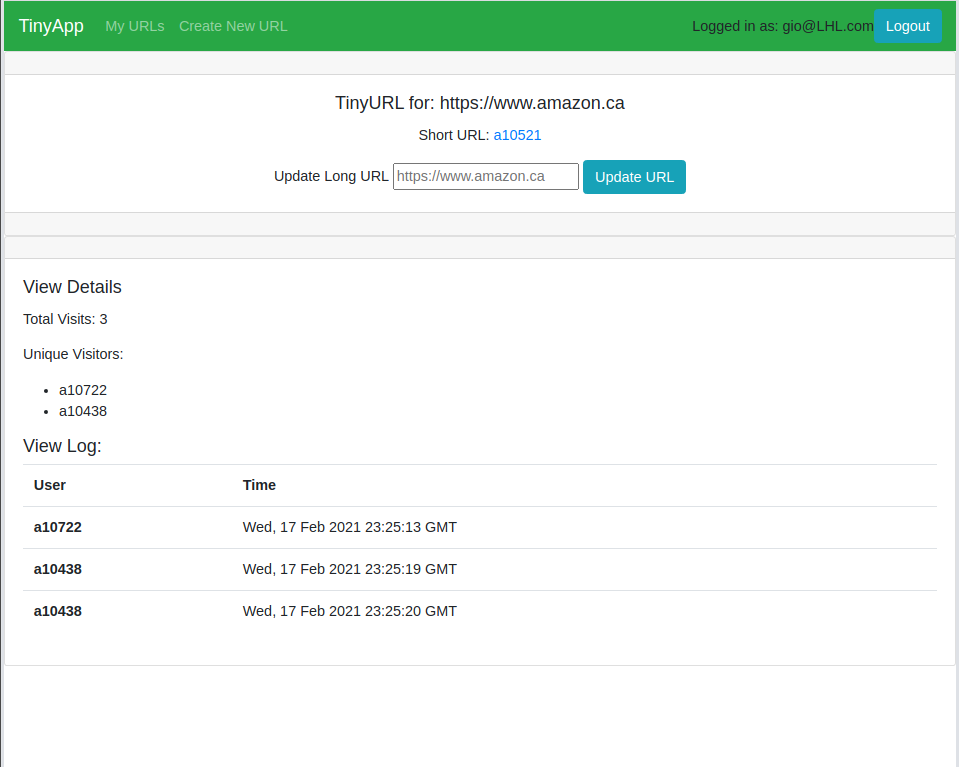
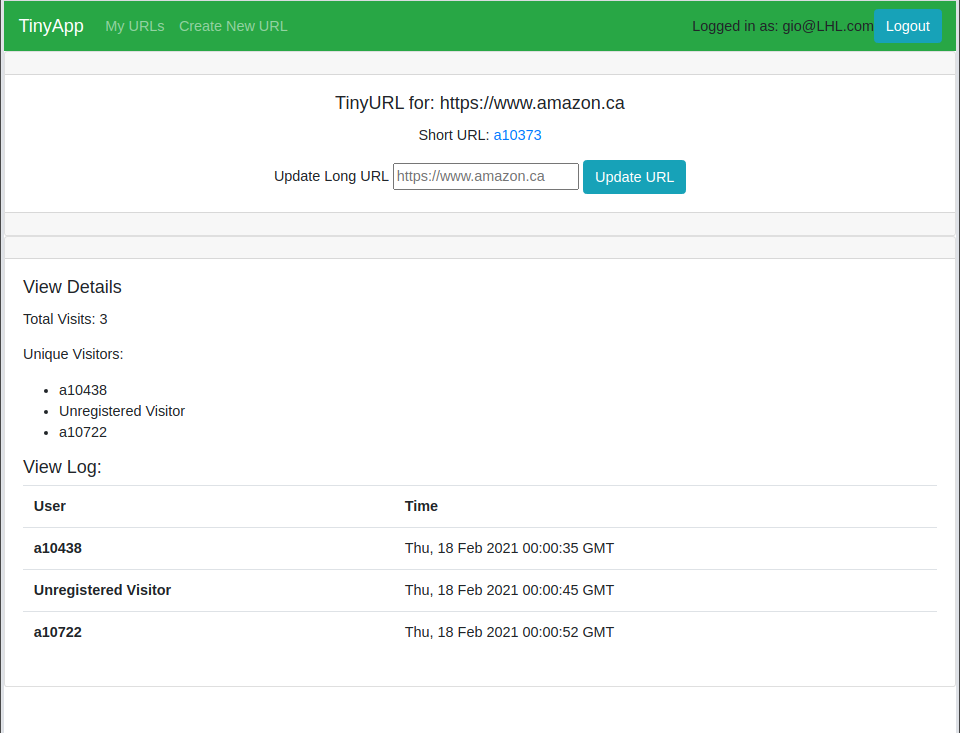
fixed a bug where unregistered users weren't being logged to analytics

diff --git a/express_server.js b/express_server.js
@@ -84,17 +84,21 @@ app.get("/u/:shortURL", (req, res) => {
   }
 
   // create new visit object with visit details
-  const v = {
-    user: req.session.user_id.id || 'Unregistered Visitor',
-    time: new Date(Date.now()).toUTCString()
+  if (req.session.hasOwnProperty("user_id")) {
+    const v = {
+      user: req.session.user_id.id || 'Unregistered Visitor',
+      time: new Date(Date.now()).toUTCString()
+      }
+    urlDatabase[req.params.shortURL]['visits'].push(v);
+    
+  } else {
+    const v = {
+      user: 'Unregistered Visitor',
+      time: new Date(Date.now()).toUTCString()
+    }
+    urlDatabase[req.params.shortURL]['visits'].push(v);
   }
 
-  urlDatabase[req.params.shortURL]['visits'].push(v);
-  // console.log(urlDatabase[req.params.shortURL]);
-  // const userCookieID = req.session.user_id.id;
-  // if (!urlDatabase[req.params.shortURL]['uniqueVisitors'].includes(userCookieID)) {
-  //   urlDatabase[req.params.shortURL]['uniqueVisitors'].push(userCookieID);
-  // }
   const { longURL } = urlDatabase[req.params.shortURL];
   res.redirect(longURL);
 });
